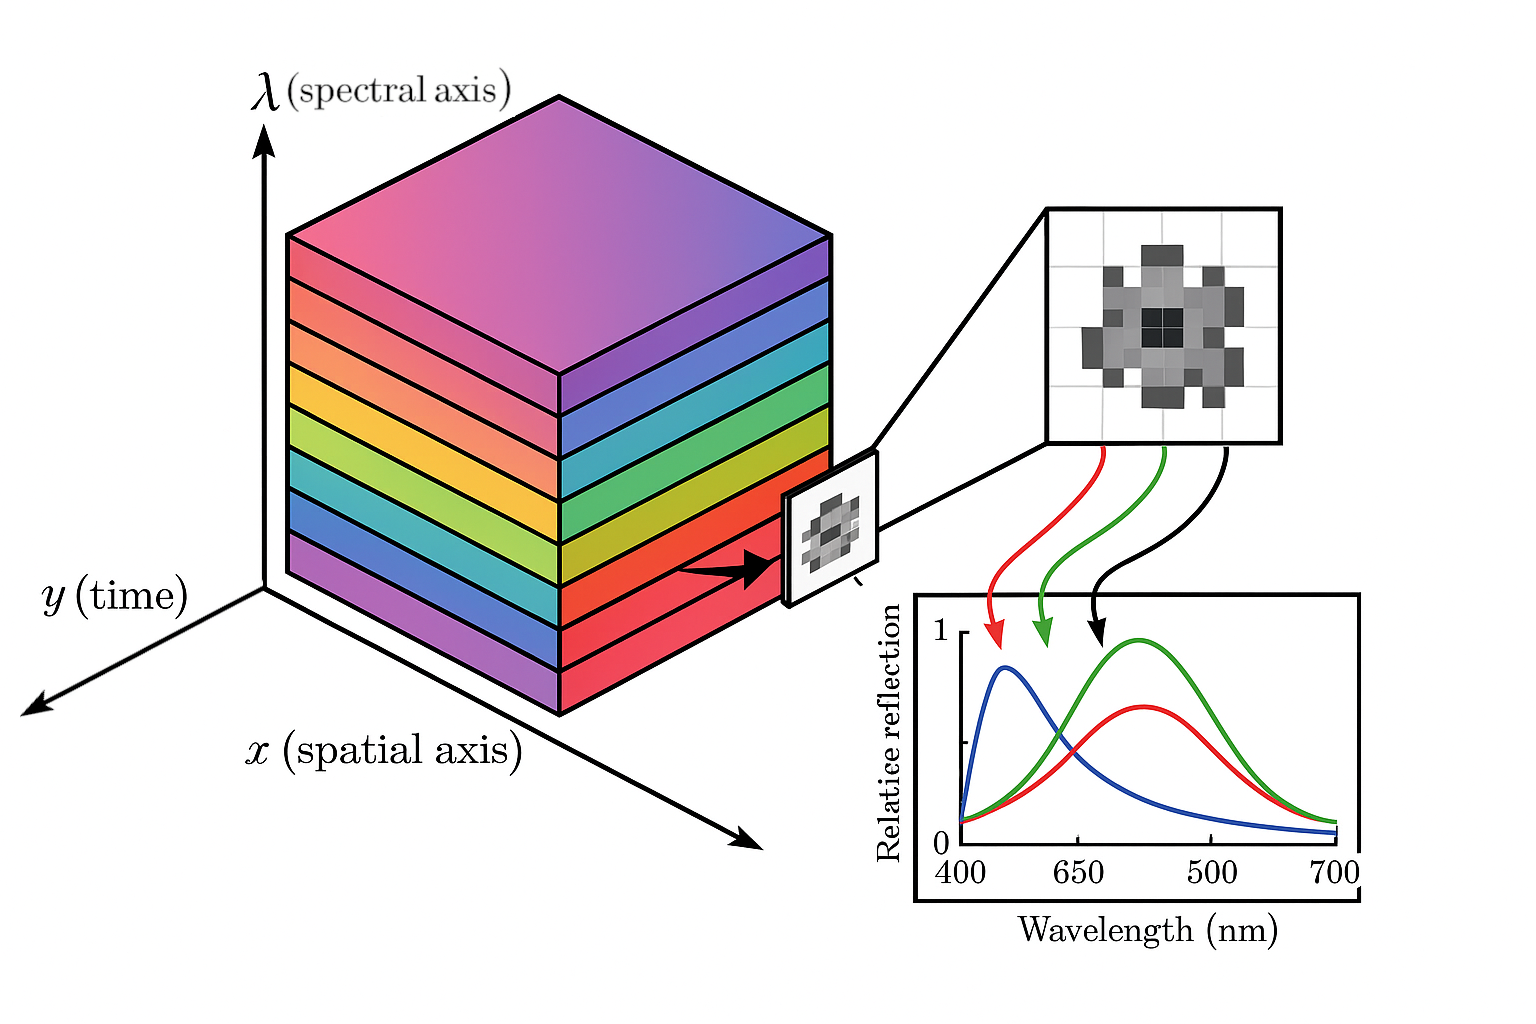
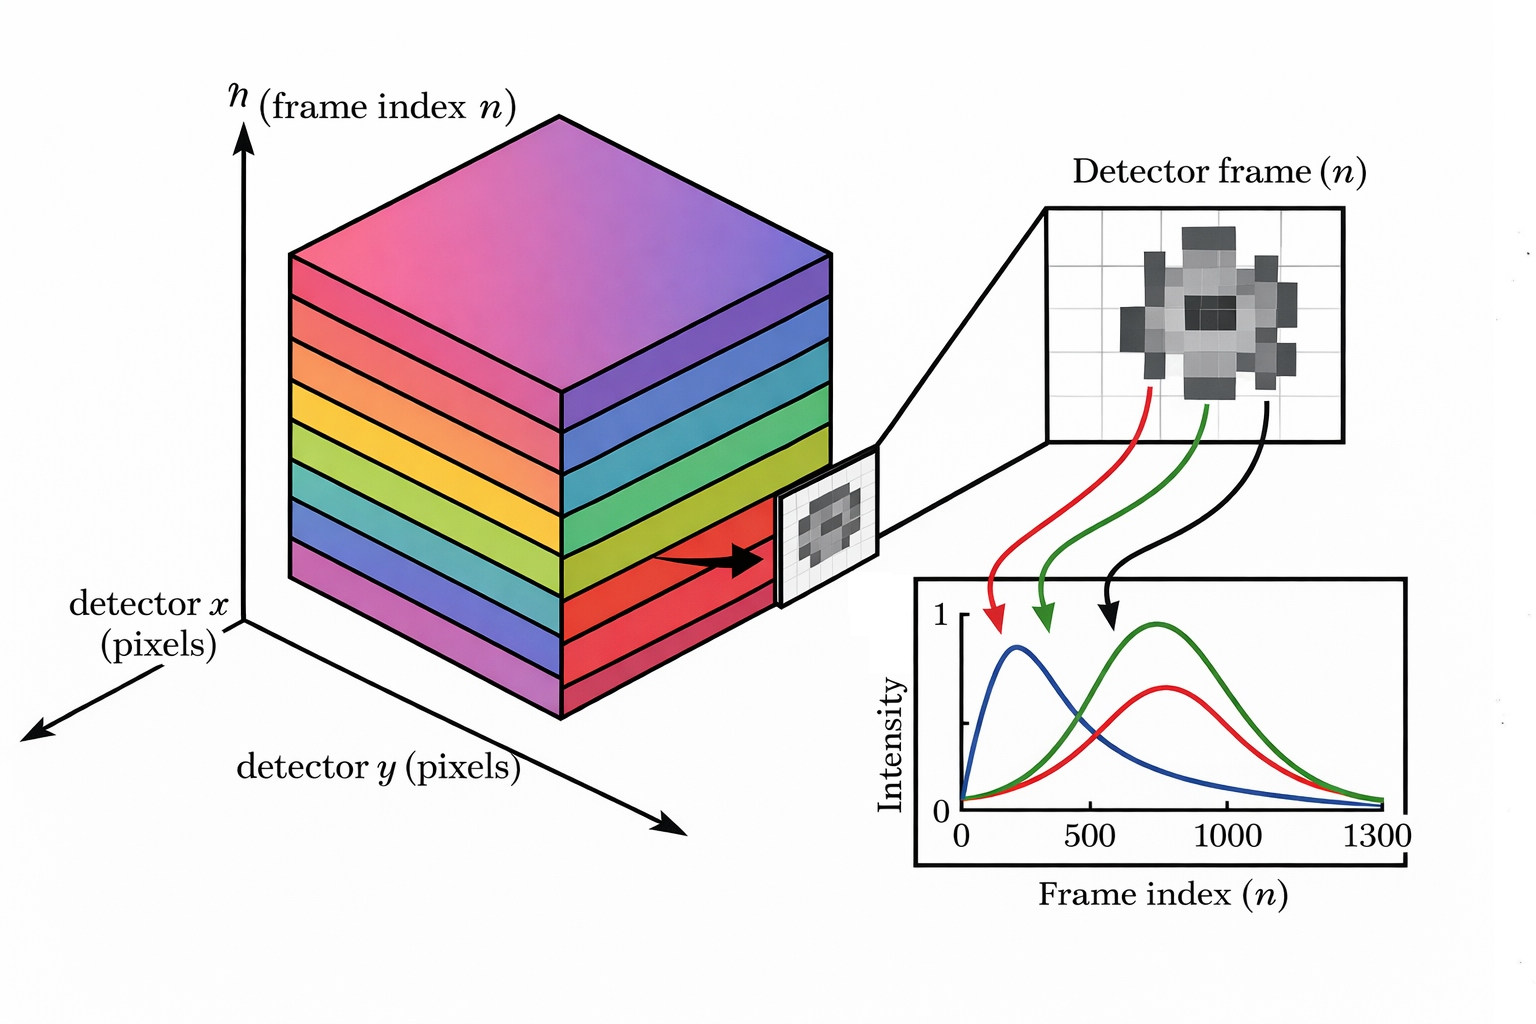
Refactor figure placement and remove automotive example for clarity in thesis document

diff --git a/Report/Thesis.tex b/Report/Thesis.tex
@@ -470,7 +470,7 @@ These facilities have a direct impact on the industry. At the European Synchrotr
 \subsubsection{Typical beamline architecture}
 A beamline shapes the beam with mirrors, slits, and monochromators, then positions the specimen on a multi-axis stage. A high-speed detector records 2-D or 3-D data at up to thousands of frames per second. A \gls{DAQ} server buffers frames on local \gls{NVMe} \gls{SSD}s or a burst buffer and writes to storage. Historically, the stream targets a parallel file system (Lustre/\gls{GPFS}), but in recent years object-store workflows have been introduced as an alternative (Figure \ref{fig:beamline-journey}).
 
-\begin{figure}[!ht]
+\begin{figure}[H]
   \centering
   \includegraphics[width=\linewidth]{figures/beamline_data_journey.jpg}
   \caption{
@@ -532,9 +532,6 @@ Indexing a single 2-D detector frame by additional experimental coordinates turn
 \end{figure}
 
 When these axes are combined, experiments can generate 5-D or 6-D datasets. For example, a $2048\times2048$ detector recording 1800 rotation angles, 50 energy points, and 20-time delays already contains $\sim150\times10^{9}$ pixels ($\approx$\,\SI{300}{\giga\byte} at 16-bit depth). These arrays enable multivariate analyses but impose heavy storage and I/O demands. Some beamlines further append polarization, external field strength, or environmental parameters (temperature, pressure, electrochemical potential), further increasing data dimensionality and storage complexity.
-
-\subsubsection{Real-world automotive example}
-The automotive industry uses neutron radiography to visualize water and ice formation within polymer-electrolyte fuel-cell stacks during rapid cold starts. The study used an operational neutron imaging system to map liquid distribution in a Toyota single cell down to sub-second time scales, informing design tweaks that mitigate performance losses \cite{yoshimune2024neutron}.
 
 \subsection{Experimental Workflows and Iterative Analysis}
 \label{sec:experimental-workflows-feedback-loops}
